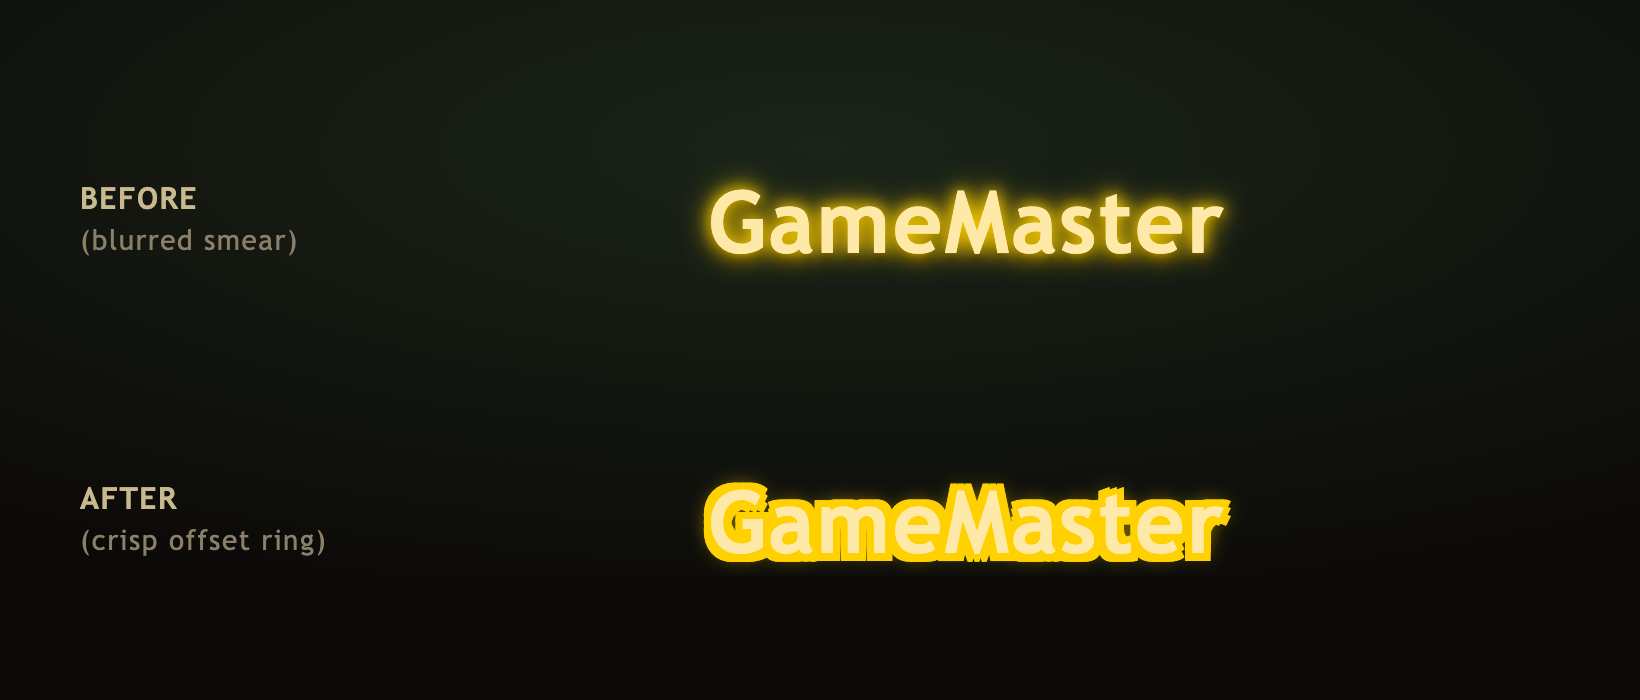
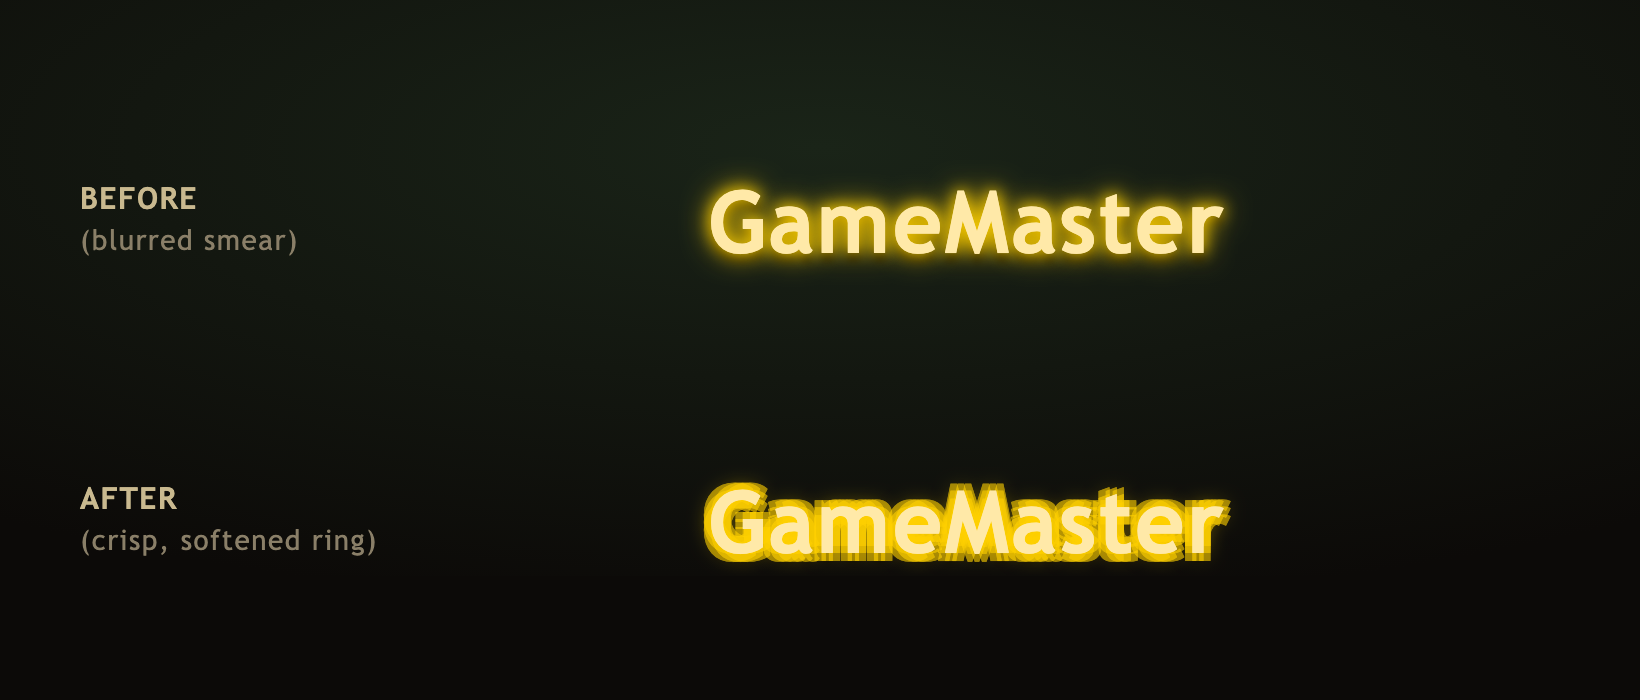
fix(ui): soften the dev-tier nameplate ring so it reads lighter (#1639)
Per review, the full-opacity eight-way 1px ring read as a heavy bold stroke. Draw
it in a new --dev-ring color-mix that keeps the per-tier --dev-outline hue but lowers
the alpha (60%), so the outline is a subtle crisp badge rather than a heavy stroke.
Still a zero-blur ring (glyph edges stay sharp, so the #1639 blur is still fixed), no
hardcoded hue, still static/reduced-motion safe, still gated by showDevBadges.

Test asserts --dev-ring derives from --dev-outline (no hardcoded color) plus the full
eight crisp offset layers; the halo/smear guard now matches either token so a revert
to the old --dev-outline smear still reds. Screenshot re-rendered to the softened ring.

Changed region(s): [[0.4354, 0.69, 0.7774, 0.81], [0.0933, 0.75, 0.2488, 0.81]]

diff --git a/src/styles/hud.css b/src/styles/hud.css
@@ -77,16 +77,21 @@
      a third of the 12px cap height) smeared the strokes and read as out-of-focus
      text rather than a halo (issue 1639). */
   .np-name.np-sig-dev {
+    /* The ring is drawn in a SOFTENED tier color: color-mix keeps the per-tier
+       --dev-outline hue but lowers the alpha, so the outline reads as a subtle badge
+       rather than a heavy bold stroke (review of issue 1639). Still a zero-blur ring,
+       so the glyph edges stay sharp; no hardcoded hue (the mix reads --dev-outline). */
+    --dev-ring: color-mix(in srgb, var(--dev-outline) 60%, transparent);
     text-shadow:
-      1px 0 0 var(--dev-outline),
-      -1px 0 0 var(--dev-outline),
-      0 1px 0 var(--dev-outline),
-      0 -1px 0 var(--dev-outline),
-      1px 1px 0 var(--dev-outline),
-      -1px 1px 0 var(--dev-outline),
-      1px -1px 0 var(--dev-outline),
-      -1px -1px 0 var(--dev-outline),
-      0 0 3px var(--dev-outline),
+      1px 0 0 var(--dev-ring),
+      -1px 0 0 var(--dev-ring),
+      0 1px 0 var(--dev-ring),
+      0 -1px 0 var(--dev-ring),
+      1px 1px 0 var(--dev-ring),
+      -1px 1px 0 var(--dev-ring),
+      1px -1px 0 var(--dev-ring),
+      -1px -1px 0 var(--dev-ring),
+      0 0 3px var(--dev-ring),
       0 1px 1px #000;
   }
   .np-hpbar {

diff --git a/tests/nameplate_dev_glow.test.ts b/tests/nameplate_dev_glow.test.ts
@@ -23,23 +23,26 @@ describe('dev-tier nameplate glow stays crisp (#1639)', () => {
     const body = m![1];
     // The old smear stacked TWO zero-offset blurs over the glyphs (0 0 4px + 0 0 2px).
     // The fix keeps at most ONE faint halo behind the crisp ring, bounded small.
-    const blurLayers = [...body.matchAll(/0\s+0\s+(\d+)px\s+var\(--dev-outline\)/g)];
+    // Match a 0-offset blur in EITHER the tier color or the softened --dev-ring, so a revert
+    // to the old --dev-outline smear still reds this.
+    const blurLayers = [...body.matchAll(/0\s+0\s+(\d+)px\s+var\(--dev-(?:outline|ring)\)/g)];
     expect(blurLayers.length).toBeLessThanOrEqual(1);
     for (const layer of blurLayers) {
       expect(Number(layer[1])).toBeLessThanOrEqual(3);
     }
   });
 
-  it('draws a crisp zero-blur outline ring in the tier color (sharp glyph edges)', () => {
+  it('draws a crisp zero-blur outline ring in the softened tier color (sharp glyph edges)', () => {
     const body = m![1];
-    // Each ring layer is a zero-blur offset shadow in the tier color. An offset is either
-    // `Npx` or a bare unitless `0`, so the four CARDINAL layers (`1px 0 0`, `0 1px 0`) count
-    // alongside the four DIAGONALS (`1px 1px 0`); all eight form the full crisp ring. (The
-    // halo `0 0 3px` and the base `0 1px 1px #000` do not match: a non-zero blur / not the
-    // tier color.) The old smear had zero of these.
-    const ringLayers = [
-      ...body.matchAll(/(?:-?\d+px|0)\s+(?:-?\d+px|0)\s+0\s+var\(--dev-outline\)/g),
-    ];
+    // The ring is drawn in --dev-ring, a color-mix that keeps the per-tier --dev-outline hue
+    // but lowers the alpha so the outline is a subtle badge, not a heavy stroke (#1639 review).
+    // Assert the softened color derives from the tier color (no hardcoded hue)...
+    expect(body).toMatch(/--dev-ring:\s*color-mix\([^;]*var\(--dev-outline\)[^;]*\)/);
+    // ...and that all eight crisp zero-blur offset layers are present. An offset is either
+    // `Npx` or a bare unitless `0`, so the four CARDINALS (`1px 0 0`, `0 1px 0`) count
+    // alongside the four DIAGONALS (`1px 1px 0`). The halo `0 0 3px` (non-zero blur) and the
+    // base `0 1px 1px #000` do not match. The old smear had zero of these.
+    const ringLayers = [...body.matchAll(/(?:-?\d+px|0)\s+(?:-?\d+px|0)\s+0\s+var\(--dev-ring\)/g)];
     expect(ringLayers.length).toBeGreaterThanOrEqual(8);
   });
 });